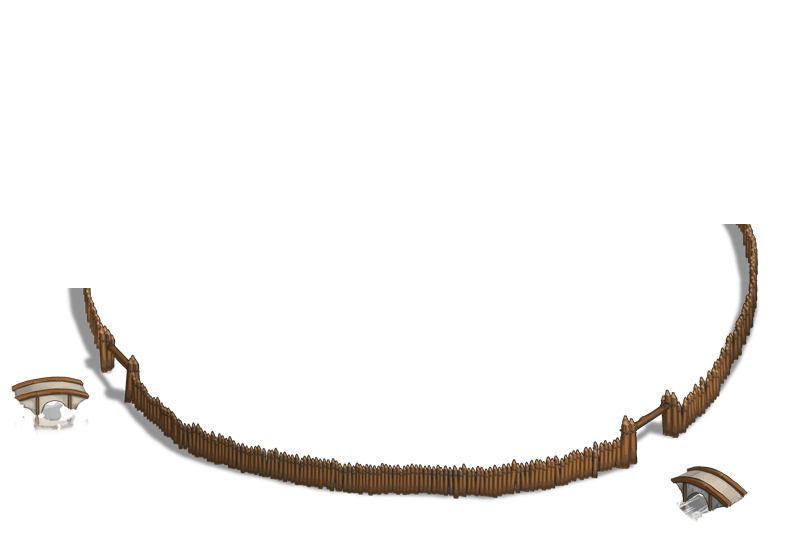
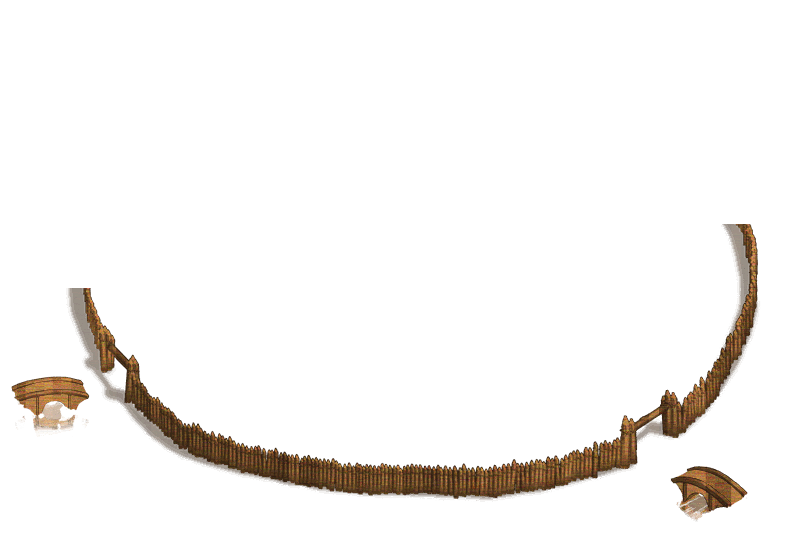
T62: village walls re-skinned with The Settlers Online material
User request: "دیوار دور دهکده هم تغییر بده" - continue the T59 TSO
reskin for the walls (left untouched there).

Targets: the wall RING around the village map (div#background:after
two-layer Top/Bottom arcs, 794x540, per tribe: roman g31 stone,
teuton g32 earth, gaul g33 palisade) and the miniature full ring
(big/gNN, 184x179). 18 sprites, deployed to img_rtl + img_ltr.

Method: silhouette-preserving re-skin - the TSO wall segments from
tsowiki.eu (o_wall_front/side_*, stone; hue-squeezed brown + cracks
for the earth wall; synthesized log planks for the palisade) fill the
ORIGINAL alpha mask, re-lit by the original luminance so the 3D
shading of the ring survives. ltr = mirrored rtl (originals verified
exact mirrors). Palette-quantized to original-scale sizes (23-40KB
per ring piece, was 690KB raw RGBA).

Cache bust: fa-FA compact1/2.css wall urls ?v=59 -> ?v=60, compact.css
imports -> ?v=60, html.php compact.css?v=19 -> v=20.

Verified: 36 files served 200 at new sizes; browser render of served
sprites matches the compose sheet; silhouettes pixel-identical
(alpha untouched), zero gameplay/layout impact.

Backups: /root/backups/t62-walls-bak.tar.

diff --git a/gpackcdn/gpack/lang/fa-FA/compact2.css b/gpackcdn/gpack/lang/fa-FA/compact2.css
@@ -36,55 +36,55 @@
 }
 
 .buildingsV3 img.g31Top {
-    background-image: url('../../img_rtl/g/buildings2019/roman/g31Top-rtl.png?v=59');
+    background-image: url('../../img_rtl/g/buildings2019/roman/g31Top-rtl.png?v=60');
     width: 794px;
     height: 540px
 }
 
 .buildingsV3 img.g31Bottom {
-    background-image: url('../../img_rtl/g/buildings2019/roman/g31Bottom-rtl.png?v=59');
+    background-image: url('../../img_rtl/g/buildings2019/roman/g31Bottom-rtl.png?v=60');
     width: 794px;
     height: 540px
 }
 
 .buildingsV3 img.g31.big {
-    background-image: url('../../img_rtl/g/buildings2019/roman/big/g31-rtl.png?v=59');
+    background-image: url('../../img_rtl/g/buildings2019/roman/big/g31-rtl.png?v=60');
     width: 184px;
     height: 179px
 }
 
 .buildingsV3 img.g32Top {
-    background-image: url('../../img_rtl/g/buildings2019/teuton/g32Top-rtl.png?v=59');
+    background-image: url('../../img_rtl/g/buildings2019/teuton/g32Top-rtl.png?v=60');
     width: 794px;
     height: 540px
 }
 
 .buildingsV3 img.g32Bottom {
-    background-image: url('../../img_rtl/g/buildings2019/teuton/g32Bottom-rtl.png?v=59');
+    background-image: url('../../img_rtl/g/buildings2019/teuton/g32Bottom-rtl.png?v=60');
     width: 794px;
     height: 540px
 }
 
 .buildingsV3 img.g32.big {
-    background-image: url('../../img_rtl/g/buildings2019/teuton/big/g32-rtl.png?v=59');
+    background-image: url('../../img_rtl/g/buildings2019/teuton/big/g32-rtl.png?v=60');
     width: 184px;
     height: 179px
 }
 
 .buildingsV3 img.g33Top {
-    background-image: url('../../img_rtl/g/buildings2019/gaul/g33Top-rtl.png?v=59');
+    background-image: url('../../img_rtl/g/buildings2019/gaul/g33Top-rtl.png?v=60');
     width: 794px;
     height: 540px
 }
 
 .buildingsV3 img.g33Bottom {
-    background-image: url('../../img_rtl/g/buildings2019/gaul/g33Bottom-rtl.png?v=59');
+    background-image: url('../../img_rtl/g/buildings2019/gaul/g33Bottom-rtl.png?v=60');
     width: 794px;
     height: 540px
 }
 
 .buildingsV3 img.g33.big {
-    background-image: url('../../img_rtl/g/buildings2019/gaul/big/g33-rtl.png?v=59');
+    background-image: url('../../img_rtl/g/buildings2019/gaul/big/g33-rtl.png?v=60');
     width: 184px;
     height: 179px
 }

diff --git a/gpackcdn/gpack/lang/fa-FA/compact1.css b/gpackcdn/gpack/lang/fa-FA/compact1.css
@@ -454,15 +454,15 @@ body.buildingsV3.perspectiveBuildings div#background.showWall:after {
 }
 
 body.buildingsV3.perspectiveBuildings div#background.showWall.roman:after {
-    background-image: url('../../img_rtl/g/buildings2019/roman/g31Bottom-rtl.png?v=59'),url('../../img_rtl/g/buildings2019/roman/g31Top-rtl.png?v=59')
+    background-image: url('../../img_rtl/g/buildings2019/roman/g31Bottom-rtl.png?v=60'),url('../../img_rtl/g/buildings2019/roman/g31Top-rtl.png?v=60')
 }
 
 body.buildingsV3.perspectiveBuildings div#background.showWall.teuton:after {
-    background-image: url('../../img_rtl/g/buildings2019/teuton/g32Bottom-rtl.png?v=59'),url('../../img_rtl/g/buildings2019/teuton/g32Top-rtl.png?v=59')
+    background-image: url('../../img_rtl/g/buildings2019/teuton/g32Bottom-rtl.png?v=60'),url('../../img_rtl/g/buildings2019/teuton/g32Top-rtl.png?v=60')
 }
 
 body.buildingsV3.perspectiveBuildings div#background.showWall.gaul:after {
-    background-image: url('../../img_rtl/g/buildings2019/gaul/g33Bottom-rtl.png?v=59'),url('../../img_rtl/g/buildings2019/gaul/g33Top-rtl.png?v=59')
+    background-image: url('../../img_rtl/g/buildings2019/gaul/g33Bottom-rtl.png?v=60'),url('../../img_rtl/g/buildings2019/gaul/g33Top-rtl.png?v=60')
 }
 
 body.buildingsV3.perspectiveBuildings div#background.showWall.egyptian:after {

diff --git a/gpackcdn/gpack/lang/fa-FA/compact.css b/gpackcdn/gpack/lang/fa-FA/compact.css
@@ -25,8 +25,8 @@
 
 
 @import "fontiran.css";
-@import "compact1.css?v=59";
-@import "compact2.css?v=59";
+@import "compact1.css?v=60";
+@import "compact2.css?v=60";
 @import "compact3.css";
 @import url("../../css_rtl/imports_compressed.css");
 

diff --git a/application/views/html.php b/application/views/html.php
@@ -99,7 +99,7 @@ if ($t26ov === '1') {
     <meta http-equiv="imagetoolbar" content="no"/>
     
     <meta name="content-language" content="<?php echo LANG_UR; ?>"/>
-    <link href="<?= GP_LOCATION ?>lang/<?php echo LANG_UR; ?>/compact.css?v=19" rel="stylesheet" type="text/css"/>
+    <link href="<?= GP_LOCATION ?>lang/<?php echo LANG_UR; ?>/compact.css?v=20" rel="stylesheet" type="text/css"/>
     <link href="<?= GP_LOCATION ?>lang/<?php echo LANG_UR; ?>/lang.css" rel="stylesheet" type="text/css"/>
 	<link href="<?= GP_LOCATION ?>lang/<?php echo LANG_UR; ?>/fixes.css?rev18" rel="stylesheet" type="text/css"/>
     <link href="/gpackcdn/gpack/mobile-responsive.css?v=11" rel="stylesheet" type="text/css"/>
